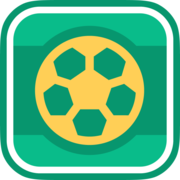
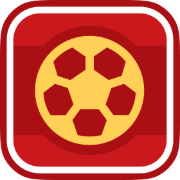
Christmas theme

diff --git a/public/index.html b/public/index.html
@@ -7,13 +7,20 @@
       name="description"
       content="Web site created using create-react-app"
     />
-    <link rel="apple-touch-icon" sizes="180x180" href="/apple-touch-icon.png">
+    <!-- <link rel="apple-touch-icon" sizes="180x180" href="/apple-touch-icon.png">
     <link rel="icon" type="image/png" sizes="32x32" href="/favicon-32x32.png">
     <link rel="icon" type="image/png" sizes="16x16" href="/favicon-16x16.png">
     <link rel="manifest" href="/site.webmanifest">
     <link rel="mask-icon" href="/safari-pinned-tab.svg" color="#09bc8a">
     <meta name="msapplication-TileColor" content="#00a300">
-    <meta name="theme-color" content="#ffffff">
+    <meta name="theme-color" content="#ffffff"> -->
+    <link rel="icon" type="image/png" href="/favicon-96x96.png" sizes="96x96" />
+    <link rel="icon" type="image/svg+xml" href="/favicon.svg" />
+    <link rel="shortcut icon" href="/favicon.ico" />
+    <link rel="apple-touch-icon" sizes="180x180" href="/apple-touch-icon.png" />
+    <meta name="apple-mobile-web-app-title" content="Tipset" />
+    <link rel="manifest" href="/site.webmanifest" />
+    
     <script src="/api/app.js"></script>
     <title>Tipset</title>
   </head>

diff --git a/src/theme.ts b/src/theme.ts
@@ -1,12 +1,20 @@
 export const theme = {
   colors: {
-    primary: '#09BC8A',
-    primaryLight: '#2FD2A4',
-    primaryLighter: '#64E2C0',
-    primaryBleach: '#C4F7E7',
-    primaryFade: '#E6FBF4',
-    primaryDark: '#07966E',
-    primaryDarker: '#08846E',
+    // primary: '#09BC8A',
+    // primaryLight: '#2FD2A4',
+    // primaryLighter: '#64E2C0',
+    // primaryBleach: '#C4F7E7',
+    // primaryFade: '#E6FBF4',
+    // primaryDark: '#07966E',
+    // primaryDarker: '#08846E',
+    // Christmas
+    primary: '#cb181c',
+    primaryLight: '#e52d27',
+    primaryLighter: '#f95d5d',
+    primaryBleach: '#fcd2d2',
+    primaryFade: '#f9e6e6',
+    primaryDark: '#a90f13',
+    primaryDarker: '#8a0d11',
     white: '#ffffff',
     black: '#000000',
     textDefault: '#333333',

diff --git a/src/components/header/Header.tsx b/src/components/header/Header.tsx
@@ -45,8 +45,9 @@ const Header = () => {
         {isMobileMenuOpen && <GlobalStyle />}
         <Content>
           <InvisibleLink href="/">
+            {/* TODO: Change size after christmas */}
             <LogoImageContainer>
-              <img src="/images/logo.svg" alt="logo" />
+              <img src="/images/LogoChristmas.svg" alt="logo" />
             </LogoImageContainer>
           </InvisibleLink>
           {isTablet ? (
@@ -173,7 +174,9 @@ const InvisibleLink = styled.a`
 `;
 
 const LogoImageContainer = styled.div`
-  height: 50px;
+  // height: 50px;
+  height: 60px;
+  margin-bottom: 5px;
   width: fit-content;
   > img {
     height: 100%;

diff --git a/src/utils/Fixture.ts b/src/utils/Fixture.ts
@@ -107,6 +107,7 @@ export interface TeamFixturePreviewStats {
     result: FixtureResult;
     opponent: string;
   };
+  insights?: Array<string>;
 }
 
 export interface FixturePreviewStats {
